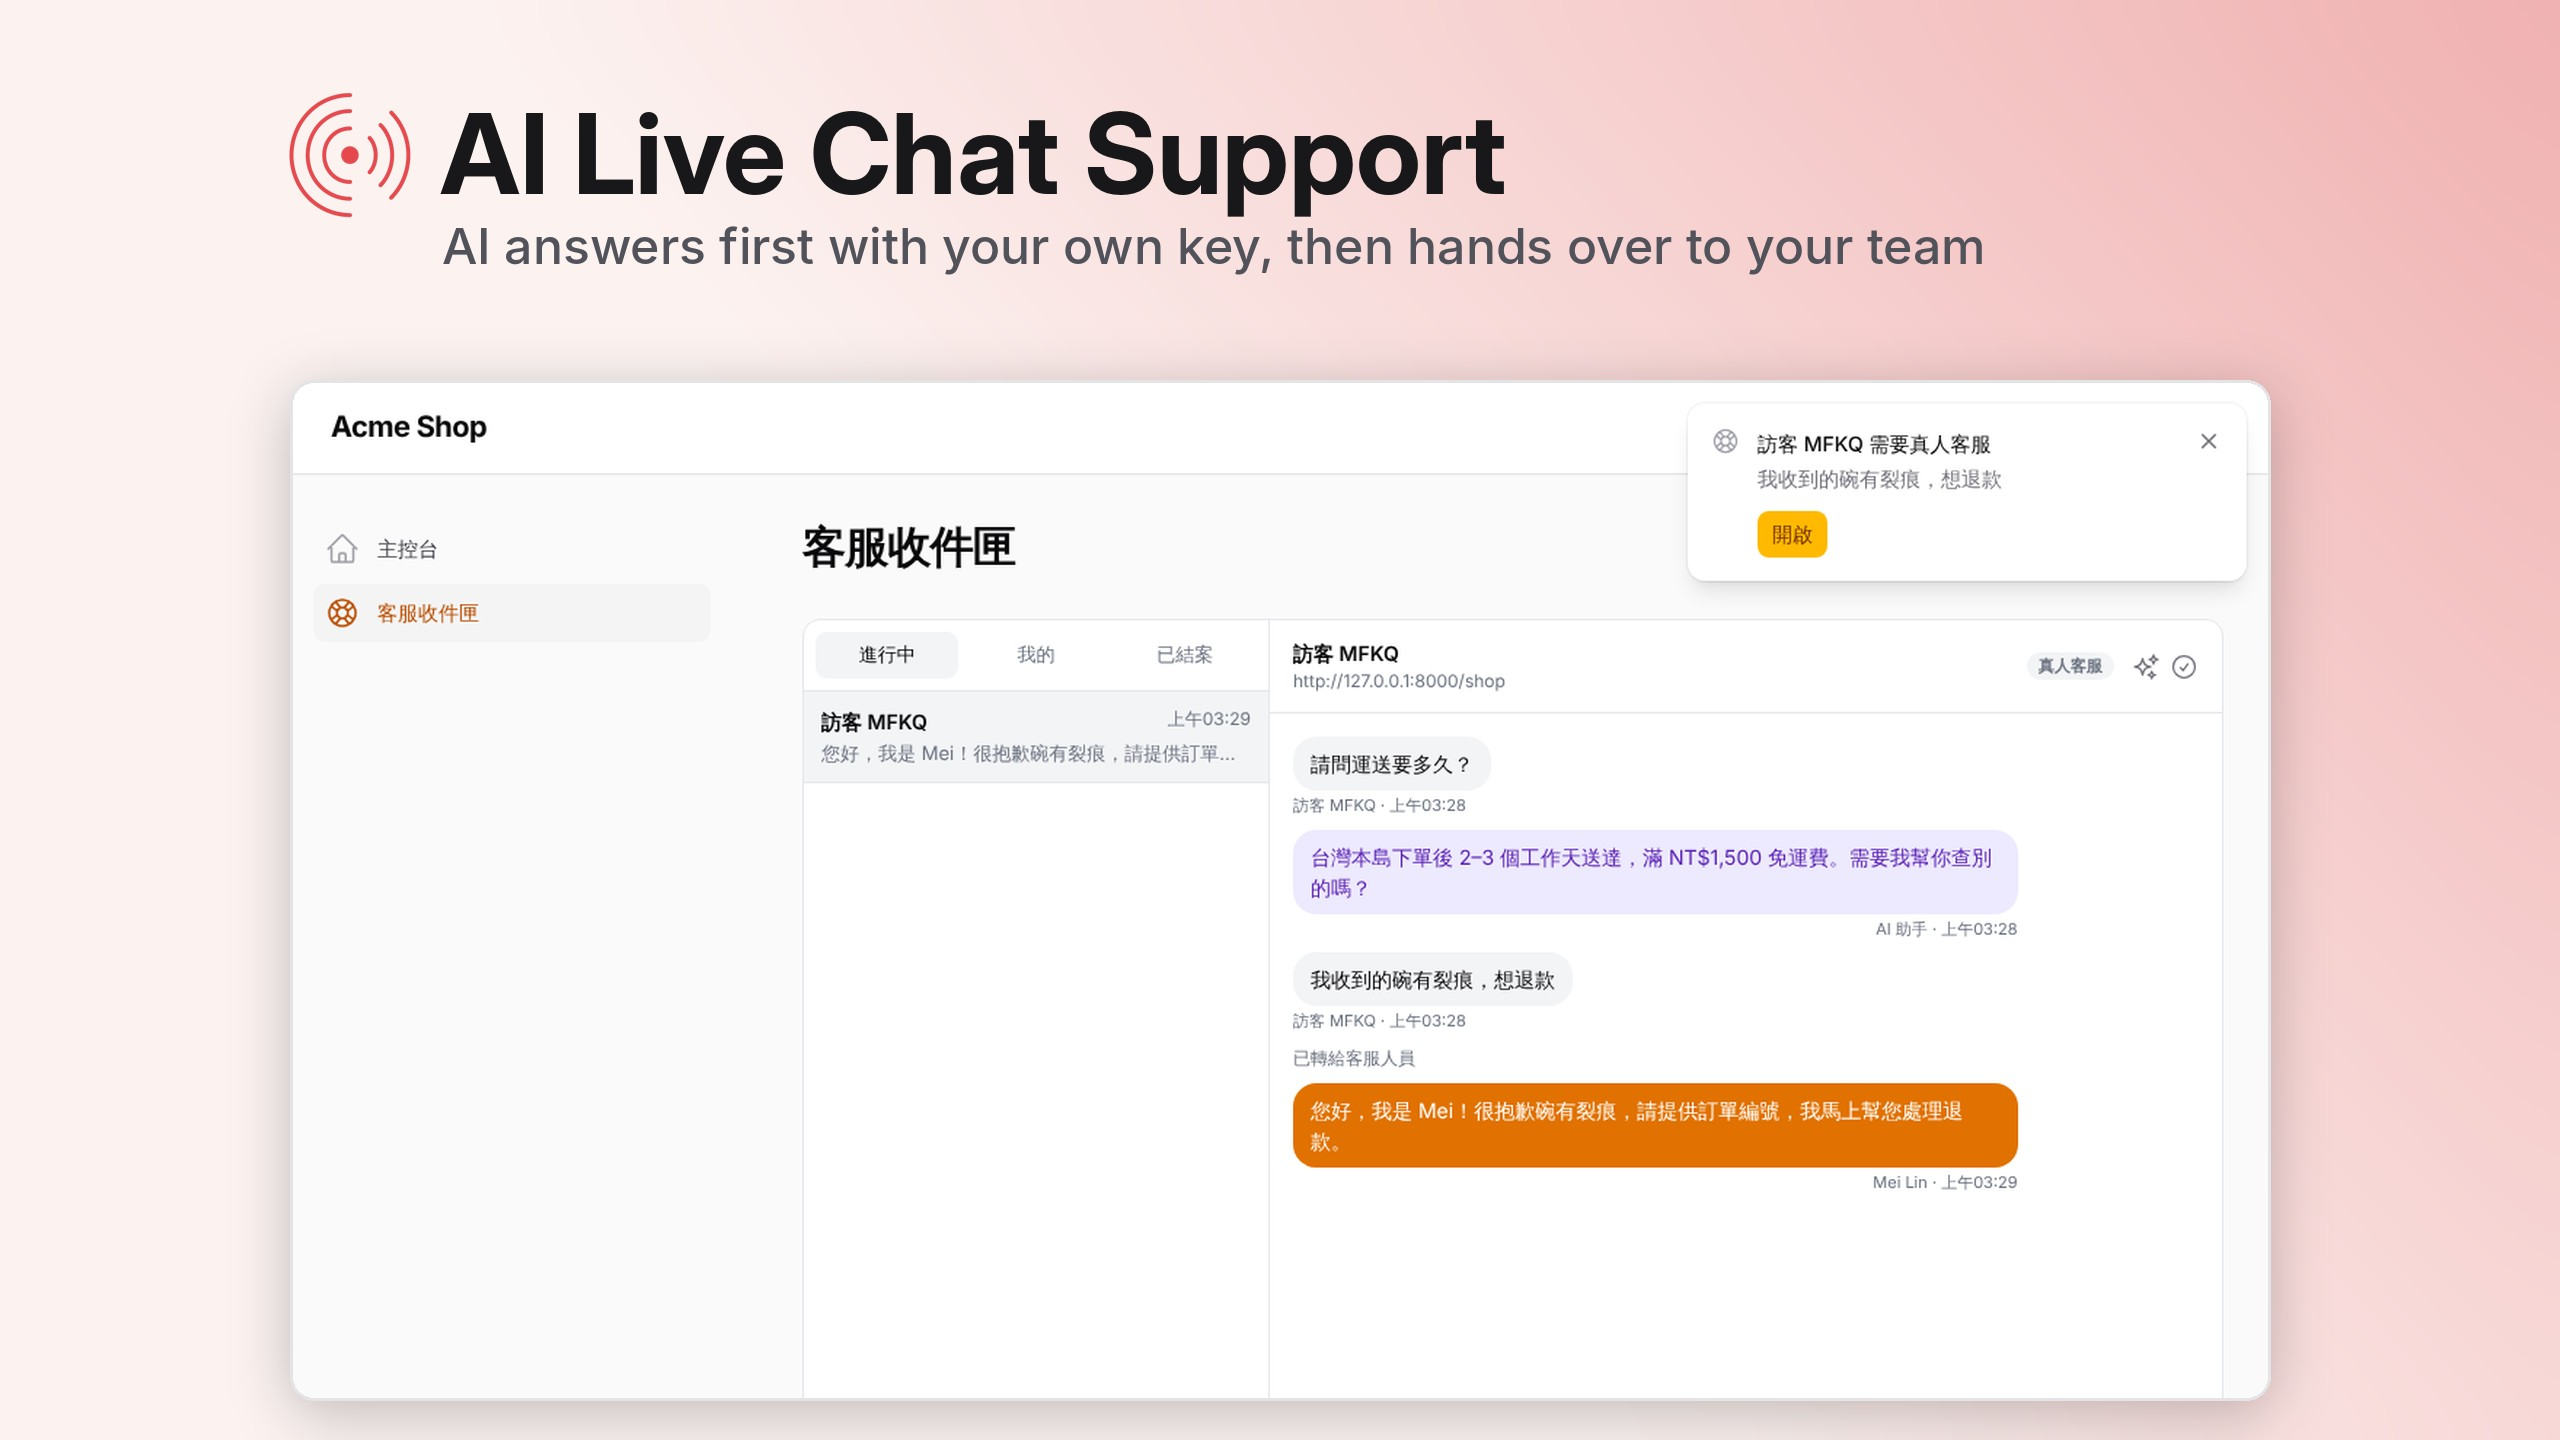
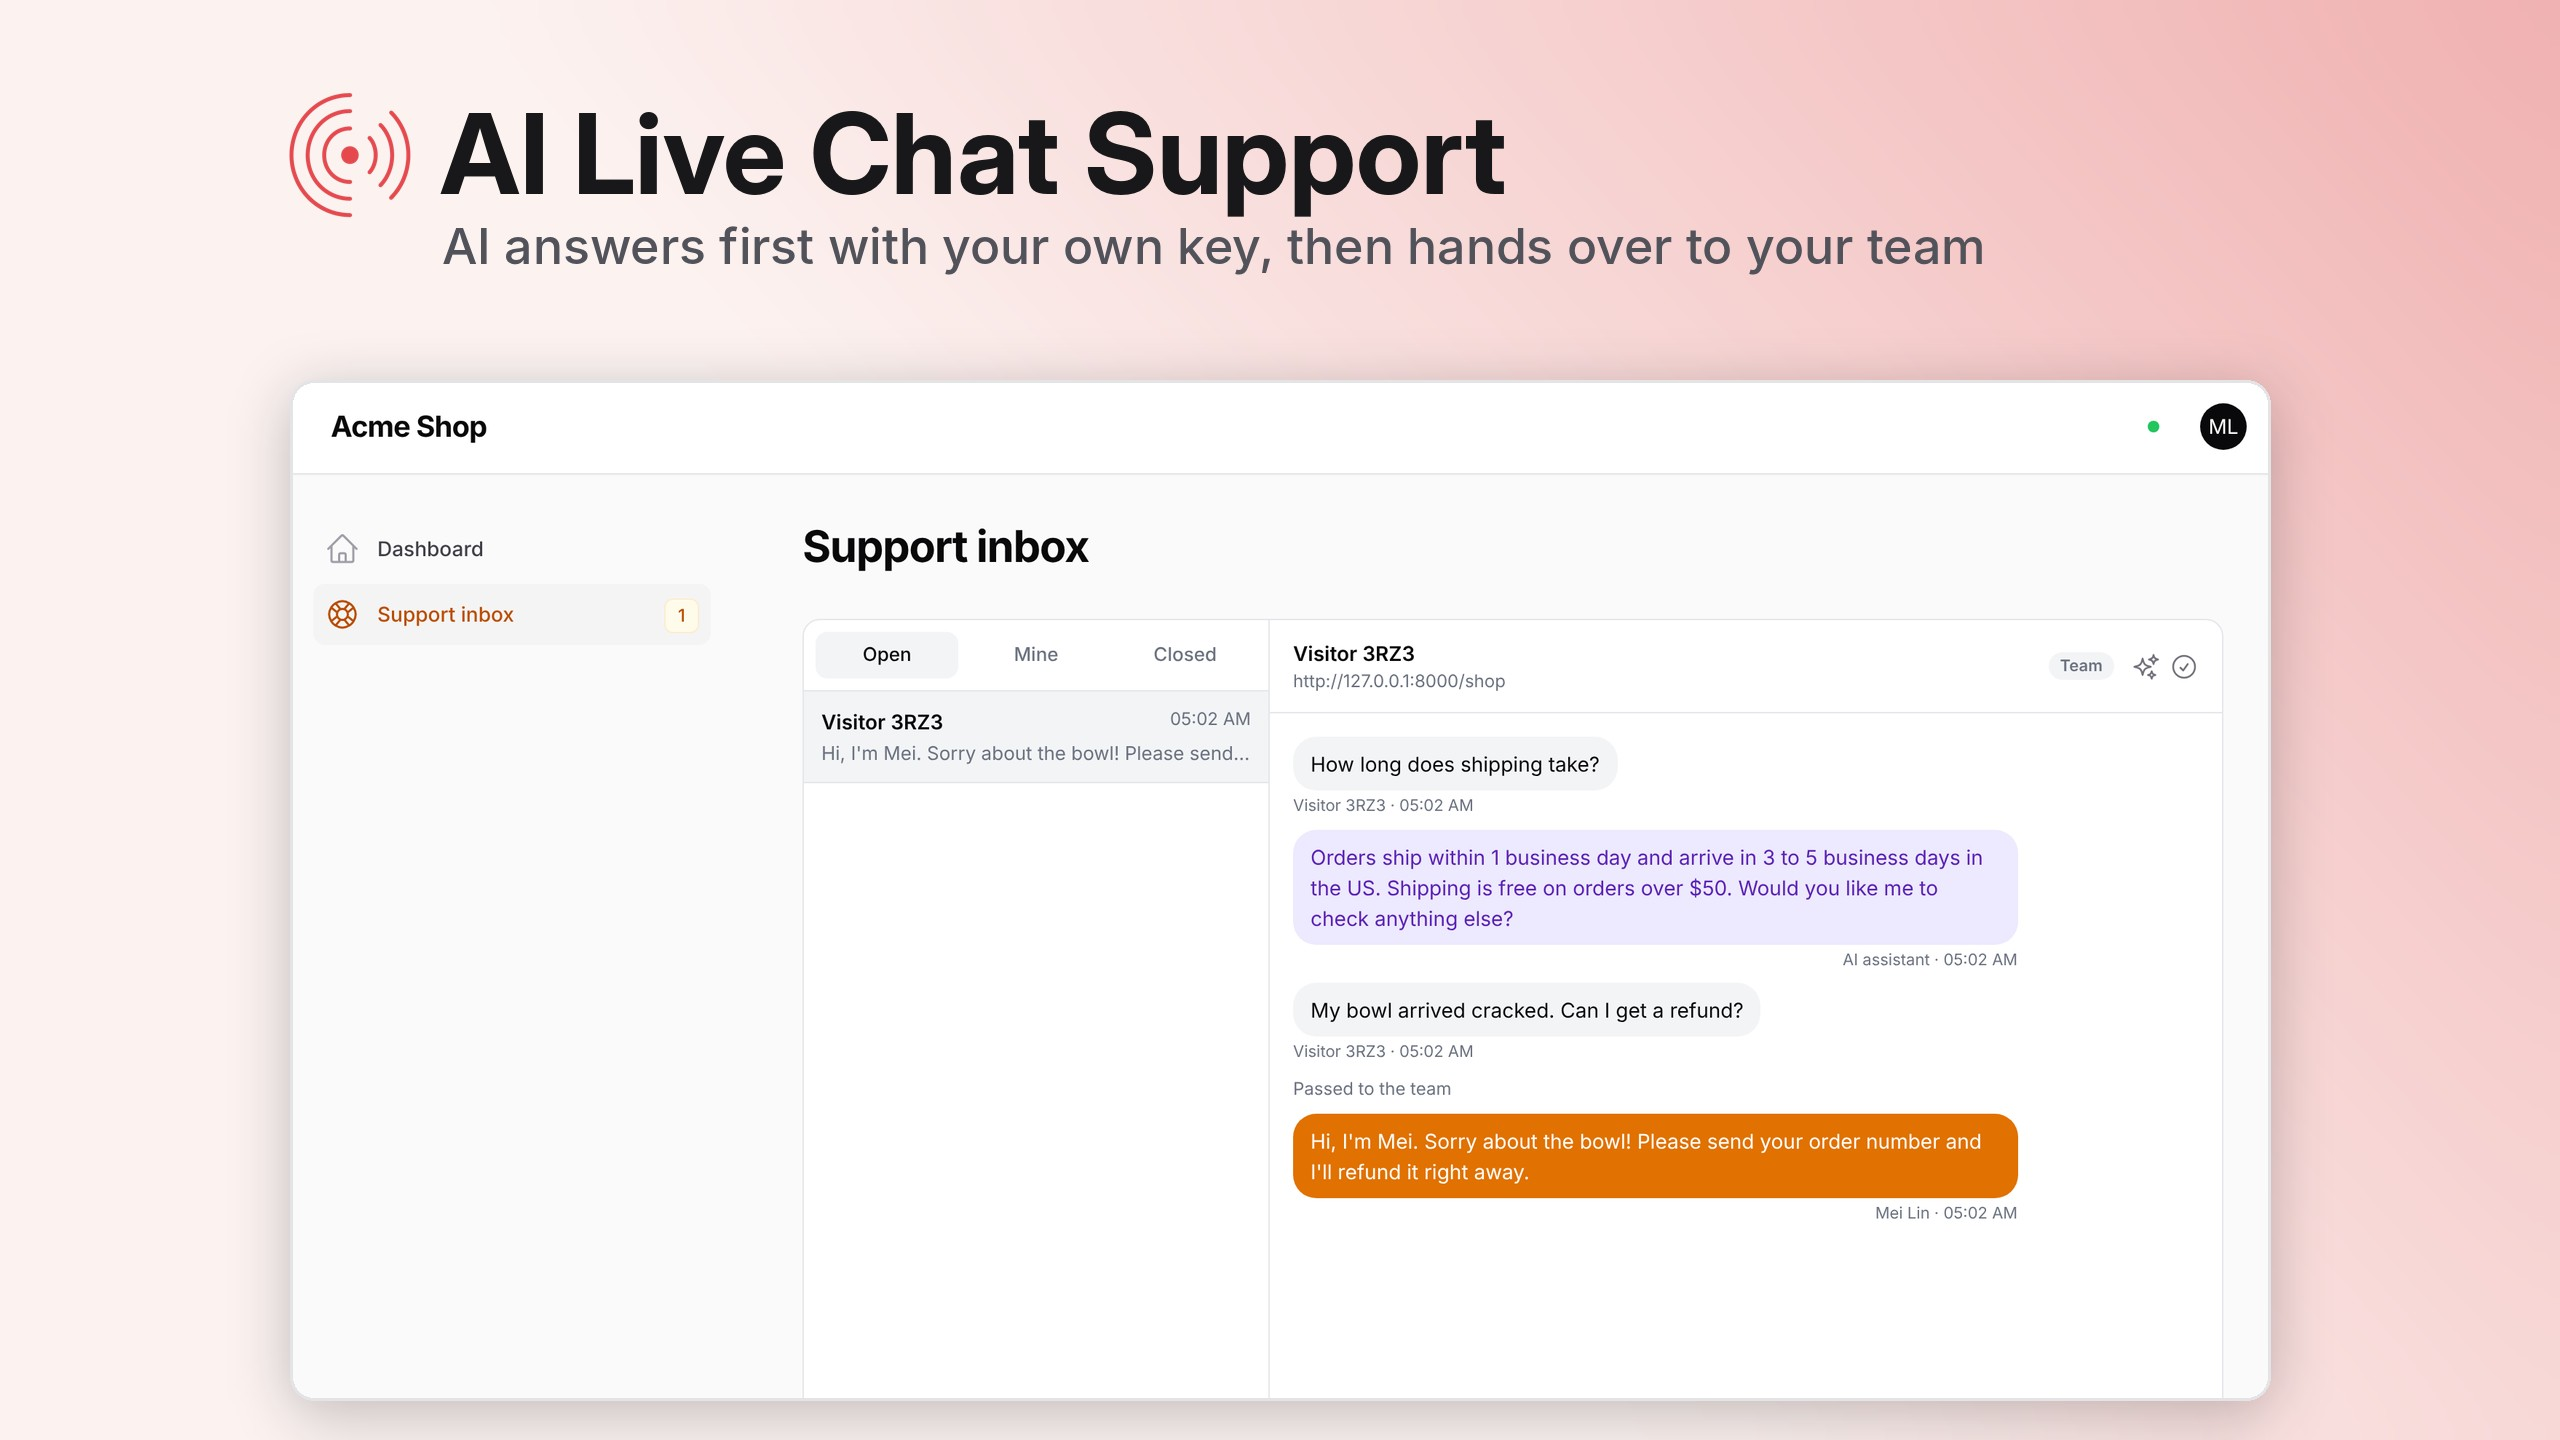
Use English screenshots for the cover and add a Screenshots section (#3)
Claude-Session: https://claude.ai/code/session_01SHtsCBcAf9e8qpLC3PjGJx

diff --git a/README.md b/README.md
@@ -32,6 +32,16 @@ answer from a live inbox in your Filament panel.
 Supports Filament 3, 4 and 5. Conversations are stored in your own database;
 Hibira only delivers them live.
 
+## Screenshots
+
+The chat on your website: the AI answers, then hands a refund question to your team.
+
+![Chat widget on a website](art/widget.jpg)
+
+The support inbox in your Filament panel, live.
+
+![Support inbox in a Filament panel](art/inbox.jpg)
+
 ## Install
 
 ```sh
